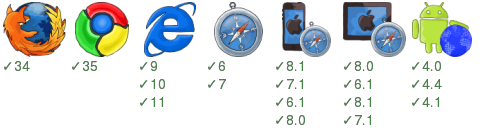
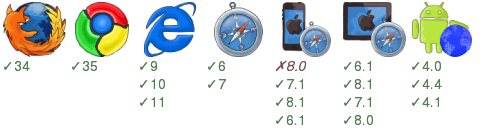
Auto commit smoke test results for 0636283a67d46ee5da6284ab28d6eac3671f642d [ci skip]

diff --git a/examples/00hello/badge.html b/examples/00hello/badge.html
@@ -28,16 +28,16 @@ div{vertical-align:top;overflow:hidden;display:inline-block;width:92px;padding:4
 <p>&#x2713;7</p>
 </div><div>
 <img src="/home/travis/build/zordius/fluxex/examples/00hello/node_modules/badge-render/browser-badge/static/iphone.png" />
-<p>&#x2713;8.1</p>
+<i>&#x2717;8.0</i>
 <p>&#x2713;7.1</p>
+<p>&#x2713;8.1</p>
 <p>&#x2713;6.1</p>
-<p>&#x2713;8.0</p>
 </div><div>
 <img src="/home/travis/build/zordius/fluxex/examples/00hello/node_modules/badge-render/browser-badge/static/ipad.png" />
-<p>&#x2713;8.0</p>
 <p>&#x2713;6.1</p>
 <p>&#x2713;8.1</p>
 <p>&#x2713;7.1</p>
+<p>&#x2713;8.0</p>
 </div><div>
 <img src="/home/travis/build/zordius/fluxex/examples/00hello/node_modules/badge-render/browser-badge/static/android-browser.png" />
 <p>&#x2713;4.0</p>
